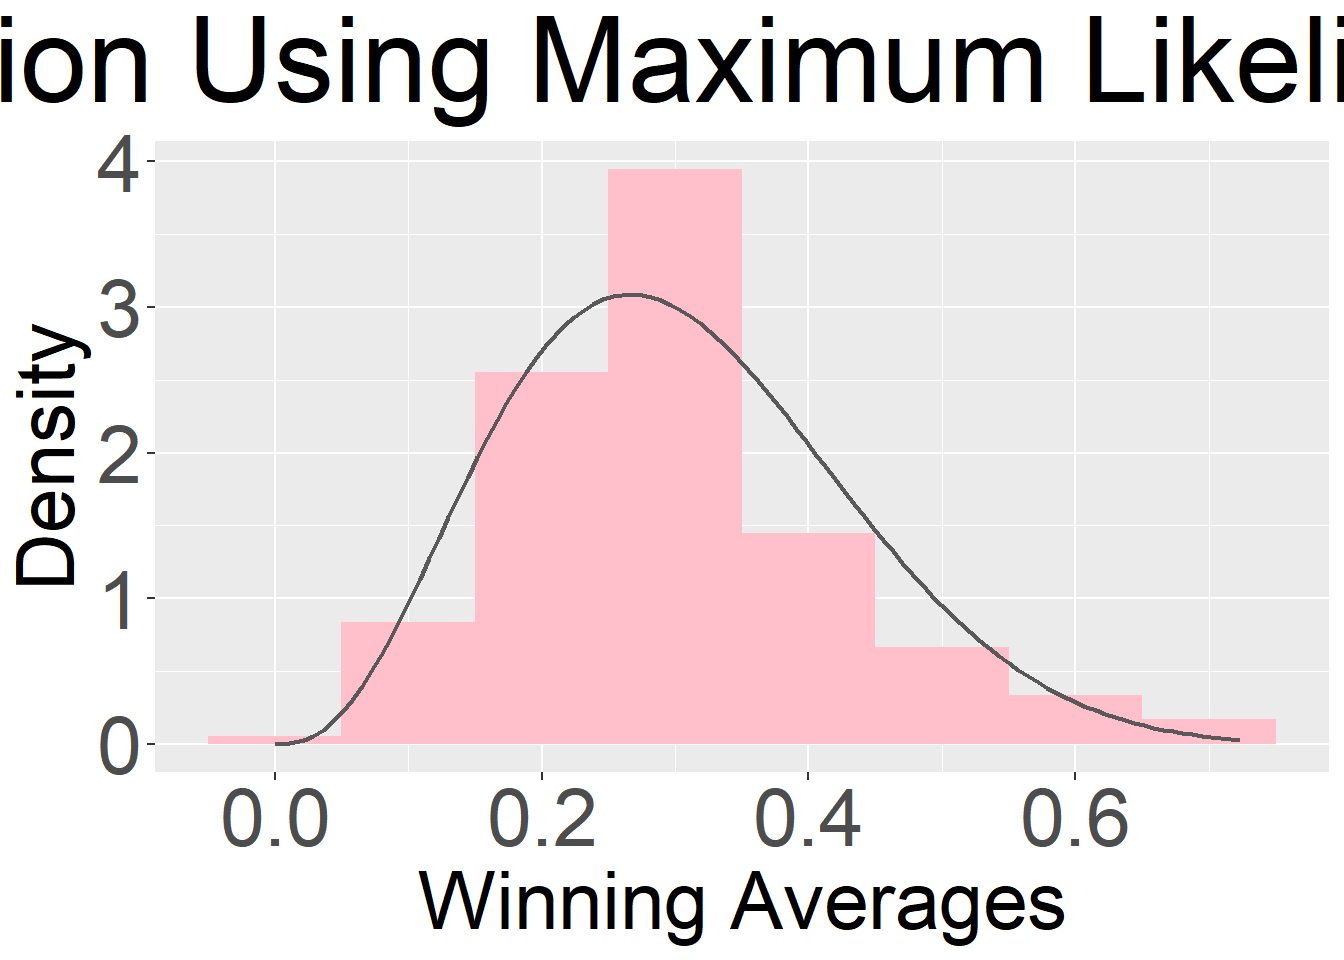
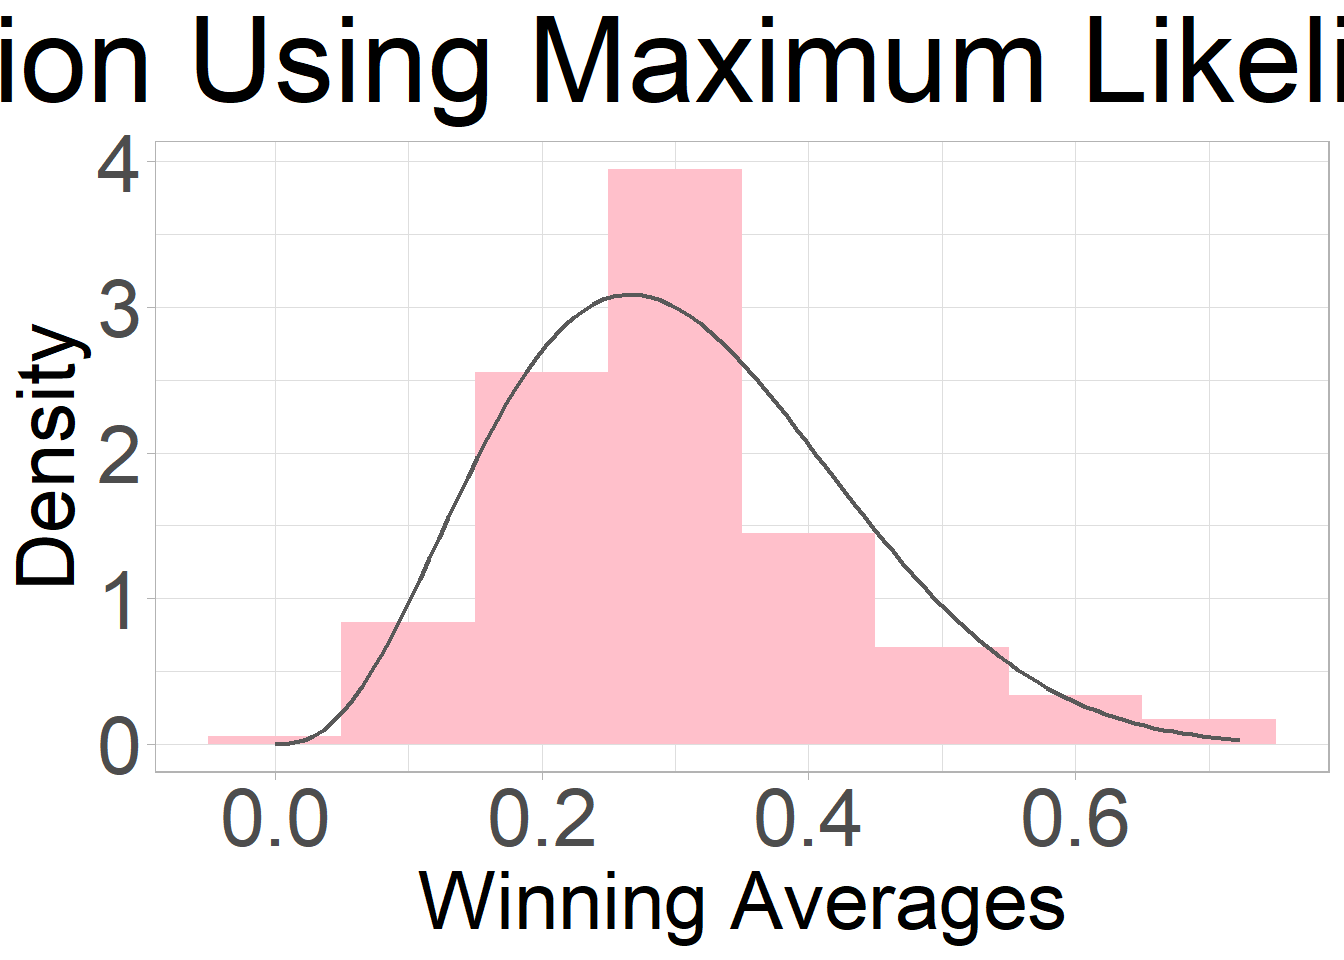
theme light

diff --git a/content/blog/English-Premier-League-Ranking-Series/03-Ranking-of-Managers-Using-Empirical-Bayes/Empirical-Bayes-Estimation.md b/content/blog/English-Premier-League-Ranking-Series/03-Ranking-of-Managers-Using-Empirical-Bayes/Empirical-Bayes-Estimation.md
@@ -284,6 +284,7 @@ epl_man%>%
   labs(x = "Winning Averages",
   y = "Density",
   title = "Prior Distribution Using Maximum Likelihood Estimation") +
+  theme_light() +
   theme(plot.title = element_text(hjust = 0.5, size = 45),
         axis.title = element_text(size = 30),
         axis.text = element_text(size = 30))
